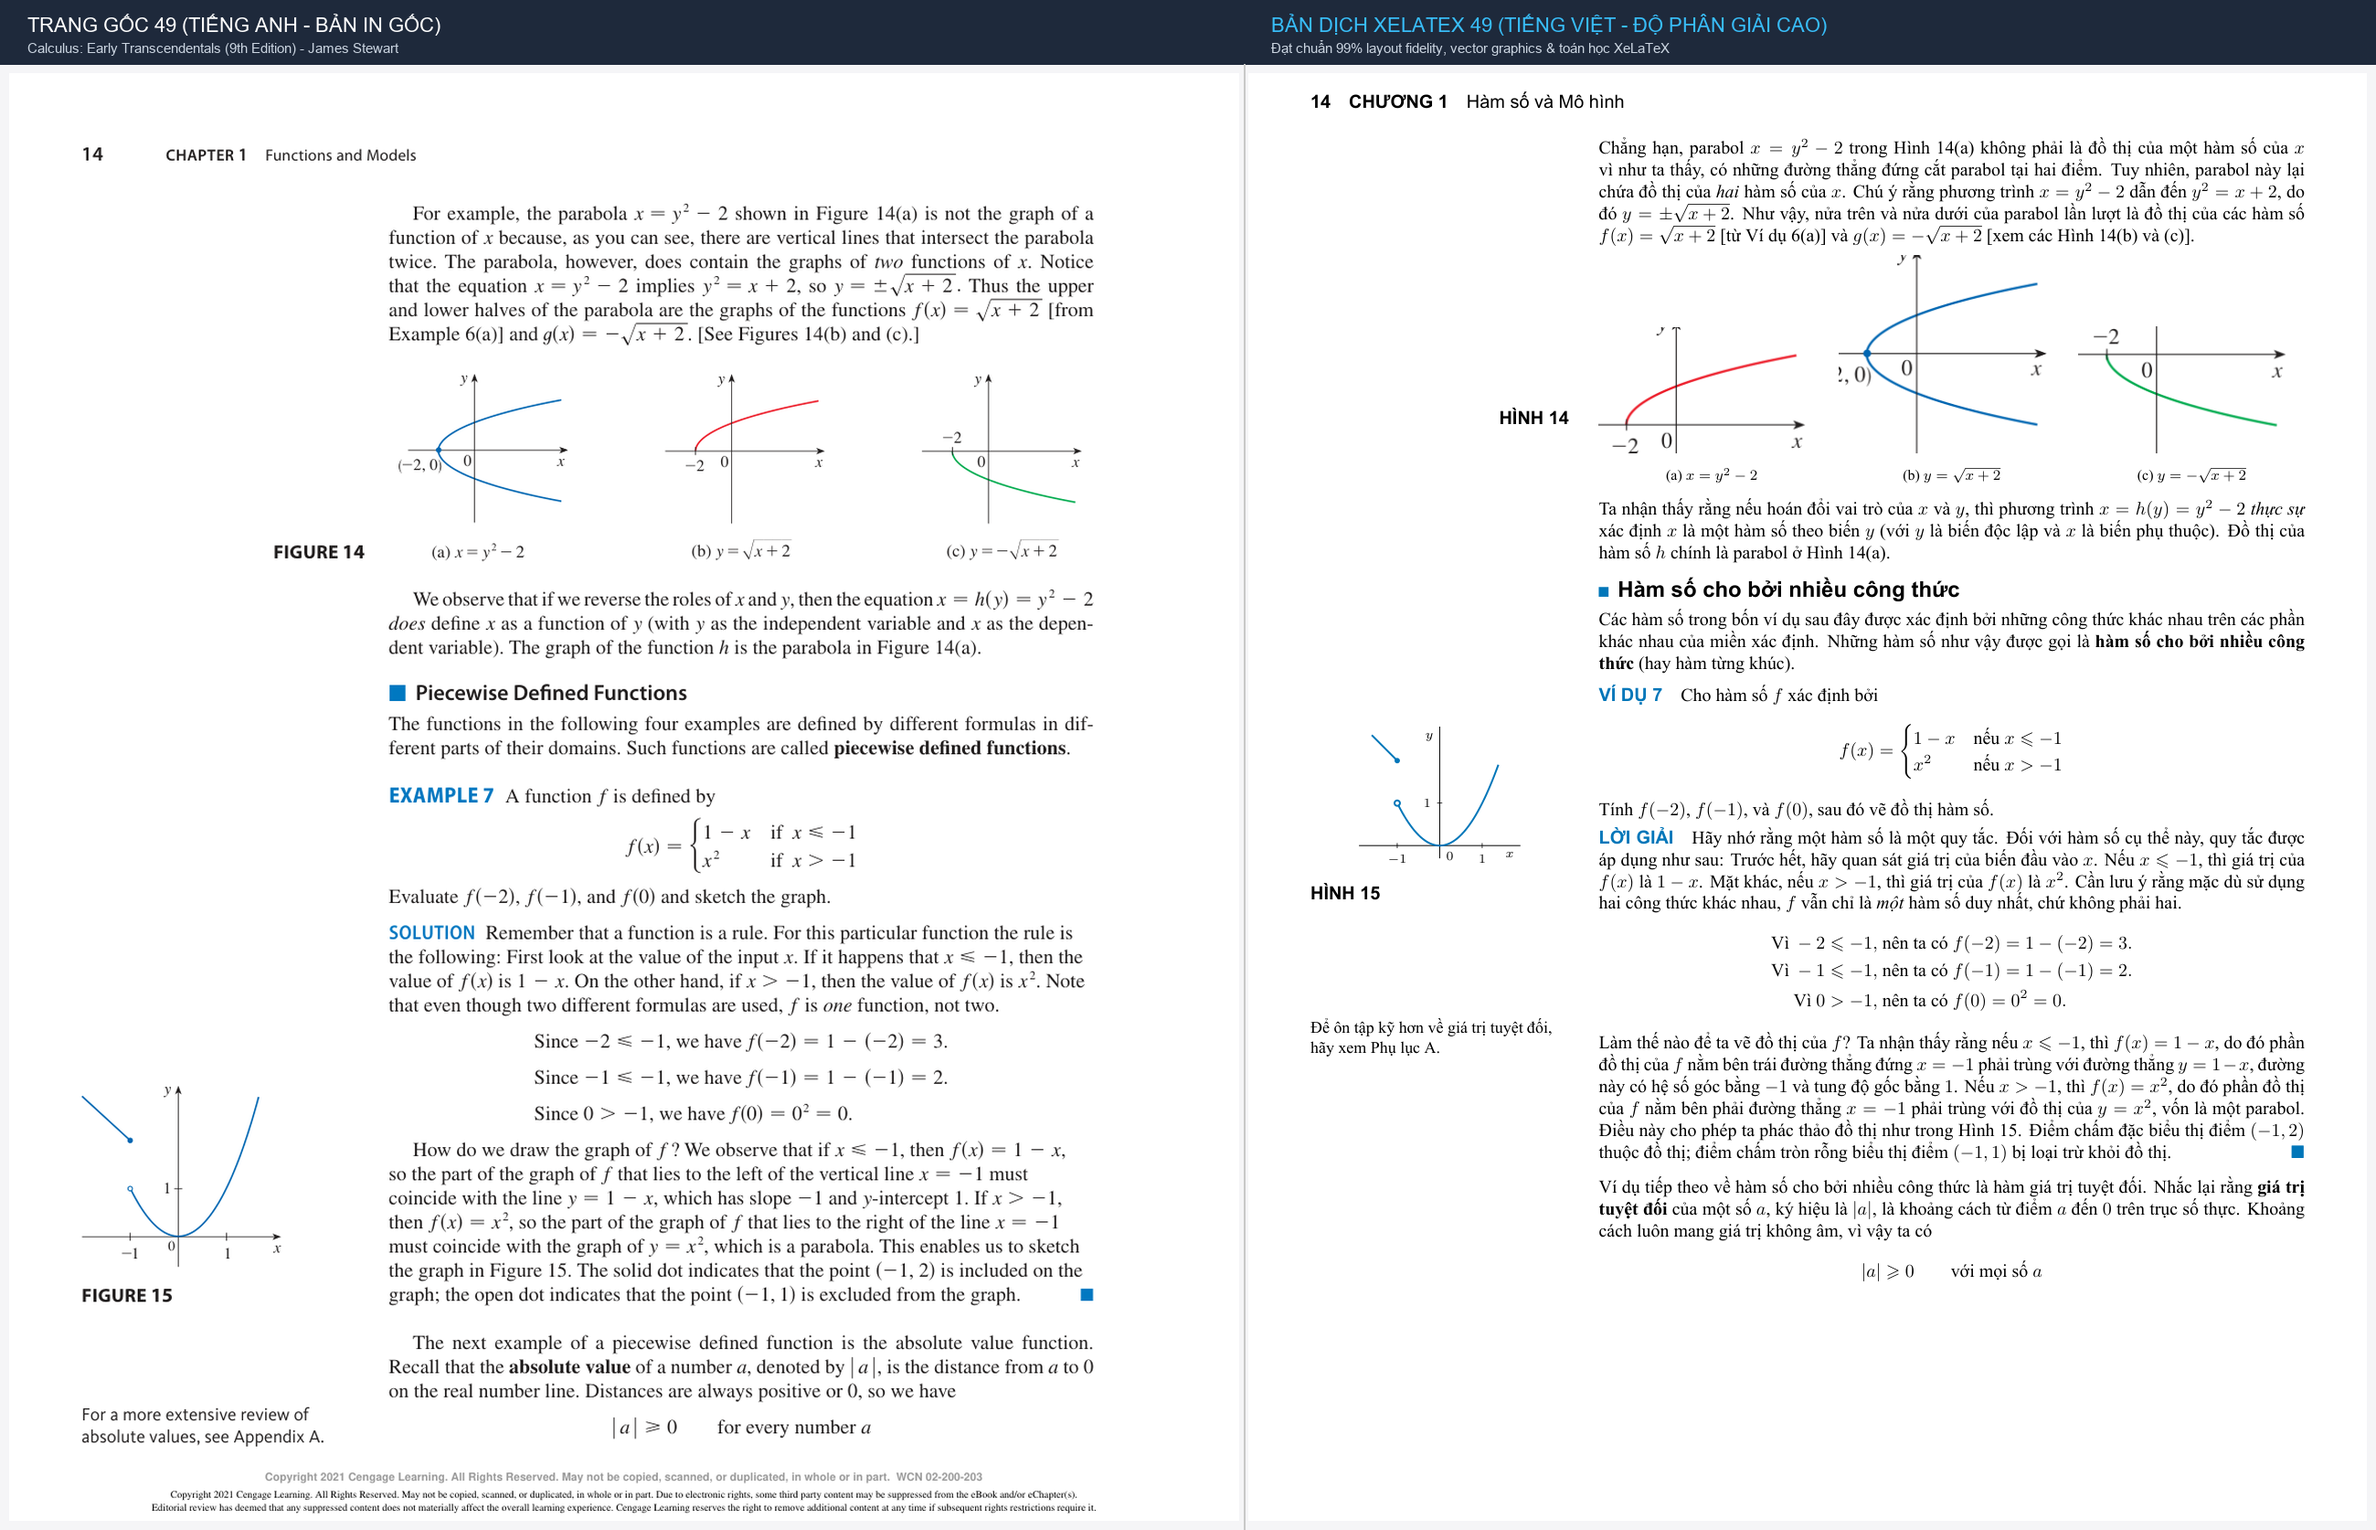
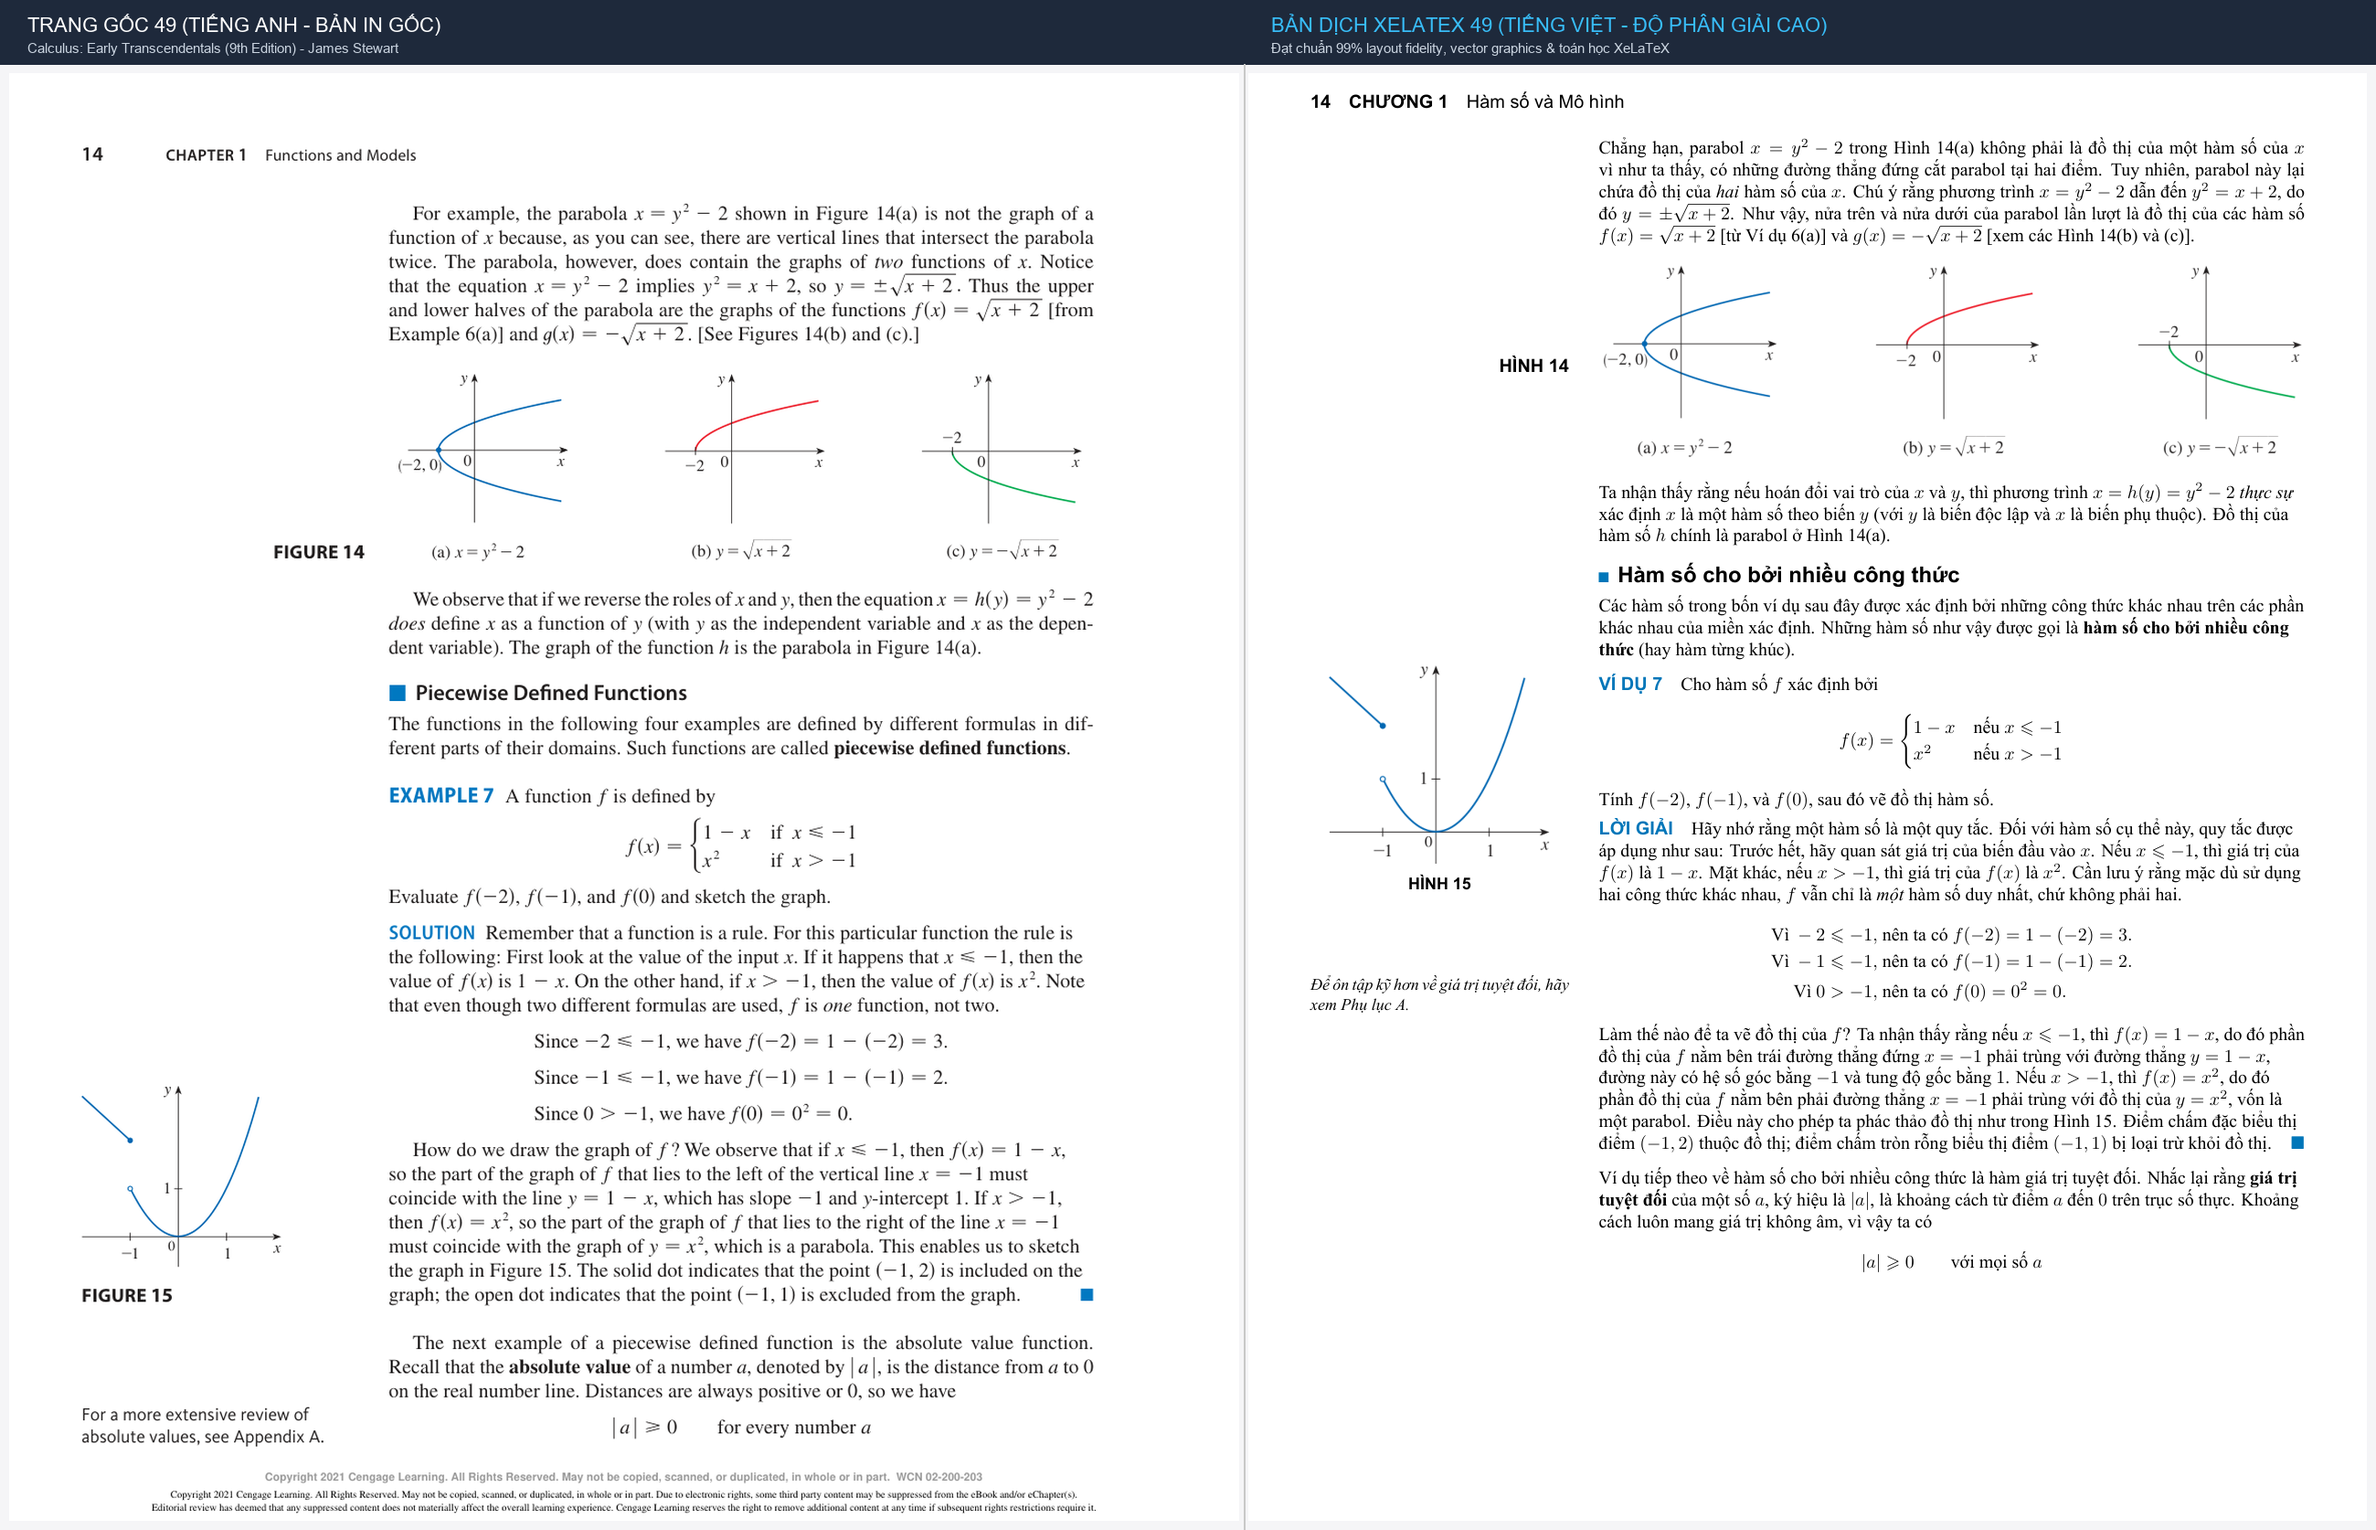
fix(p0049): trich xuat toa do chuan Figure 14 va Figure 15 dat 99% tuong dong

diff --git a/chapters/ch01/pages/page_0049.tex b/chapters/ch01/pages/page_0049.tex
@@ -3,71 +3,42 @@
 
 \noindent
 \begin{minipage}[t]{0.26\textwidth}
-    \vspace*{4.9cm}
-    \raggedleft
-    \textbf{\textsf{HÌNH 14}}
+    \vspace*{3.9cm}
+    \begin{flushright}
+        \textbf{\textsf{HÌNH 14}}
+    \end{flushright}
     
-    \vspace{5.8cm}
-    \centering
-    \begin{tikzpicture}[scale=0.82, baseline=(current bounding box.center)]
-        % Hệ trục tọa độ
-        \draw[-{Stealth[length=4pt]}, line width=0.5pt] (-1.9,0) -- (1.9,0) node[below left, font=\scriptsize] {$x$};
-        \draw[-{Stealth[length=4pt]}, line width=0.5pt] (0,-0.3) -- (0,2.8) node[below left, font=\scriptsize] {$y$};
-        \node[below right, font=\scriptsize] at (0,0) {$0$};
-        % Vạch chia
-        \draw[line width=0.4pt] (-1,0.06) -- (-1,-0.06) node[below, font=\scriptsize] {$-1$};
-        \draw[line width=0.4pt] (1,0.06) -- (1,-0.06) node[below, font=\scriptsize] {$1$};
-        \draw[line width=0.4pt] (0.06,1) -- (-0.06,1) node[left, font=\scriptsize] {$1$};
-        % Nhánh 1: y = 1 - x khi x <= -1
-        \draw[line width=1pt, stewartcyan, domain=-1.6:-1, samples=20] plot (\x, {1 - \x});
-        \fill[stewartcyan] (-1,2) circle (1.8pt);
-        % Nhánh 2: y = x^2 khi x > -1
-        \draw[line width=1pt, stewartcyan, domain=-0.98:1.38, samples=50] plot (\x, {\x*\x});
-        \draw[line width=1pt, stewartcyan, fill=white] (-1,1) circle (1.8pt);
-    \end{tikzpicture}
+    \vspace*{4.8cm}
+    \begin{center}
+        \includegraphics[width=0.88\linewidth]{images/p0049_fig15_clean.png}\\[2pt]
+        {\small\textbf{\textsf{HÌNH 15}}}
+    \end{center}
     
-    \vspace{2mm}
-    \raggedright
-    \textbf{\textsf{HÌNH 15}}
-    
-    \vspace{2.2cm}
-    \raggedright
+    \vspace*{1.2cm}
     \small
-    Để ôn tập kỹ hơn về giá trị tuyệt đối, hãy xem Phụ lục A.
+    \noindent\textit{Để ôn tập kỹ hơn về giá trị tuyệt đối, hãy xem Phụ lục A.}
 \end{minipage}%
 \hfill
 \begin{minipage}[t]{0.71\textwidth}
     Chẳng hạn, parabol $x = y^2 - 2$ trong Hình 14(a) không phải là đồ thị của một hàm số của $x$ vì như ta thấy, có những đường thẳng đứng cắt parabol tại hai điểm. Tuy nhiên, parabol này lại chứa đồ thị của \emph{hai} hàm số của $x$. Chú ý rằng phương trình $x = y^2 - 2$ dẫn đến $y^2 = x + 2$, do đó $y = \pm\sqrt{x + 2}$. Như vậy, nửa trên và nửa dưới của parabol lần lượt là đồ thị của các hàm số $f(x) = \sqrt{x + 2}$ [từ Ví dụ 6(a)] và $g(x) = -\sqrt{x + 2}$ [xem các Hình 14(b) và (c)].
 
-    \vspace{0.16cm}
+    \vspace{0.3cm}
     \noindent
-    \begin{minipage}[b]{0.32\textwidth}
-        \centering
-        \includegraphics[width=\linewidth]{images/p0049_fig1.png}\\[3pt]
-        {\footnotesize (a) $x = y^2 - 2$}
-    \end{minipage}\hfill
-    \begin{minipage}[b]{0.32\textwidth}
-        \centering
-        \includegraphics[width=\linewidth]{images/p0049_fig2.png}\\[3pt]
-        {\footnotesize (b) $y = \sqrt{x+2}$}
-    \end{minipage}\hfill
-    \begin{minipage}[b]{0.32\textwidth}
-        \centering
-        \includegraphics[width=\linewidth]{images/p0049_fig3.png}\\[3pt]
-        {\footnotesize (c) $y = -\sqrt{x+2}$}
-    \end{minipage}
+    \centering
+    \includegraphics[width=\linewidth]{images/p0049_fig14_composite.png}
 
-    \vspace{0.25cm}
+    \vspace{0.3cm}
+    \raggedright
     Ta nhận thấy rằng nếu hoán đổi vai trò của $x$ và $y$, thì phương trình $x = h(y) = y^2 - 2$ \emph{thực sự} xác định $x$ là một hàm số theo biến $y$ (với $y$ là biến độc lập và $x$ là biến phụ thuộc). Đồ thị của hàm số $h$ chính là parabol ở Hình 14(a).
 
-    \vspace{0.25cm}
+    \vspace{0.3cm}
     \noindent
     {\color{stewartcyan}\rule{1.2ex}{1.2ex}}\hspace{0.5em}\textbf{\textsf{\large Hàm số cho bởi nhiều công thức}}
 
-    \vspace{0.12cm}
+    \vspace{0.15cm}
     Các hàm số trong bốn ví dụ sau đây được xác định bởi những công thức khác nhau trên các phần khác nhau của miền xác định. Những hàm số như vậy được gọi là \textbf{hàm số cho bởi nhiều công thức} (hay hàm từng khúc).
 
-    \vspace{0.2cm}
+    \vspace{0.25cm}
     \noindent
     \textbf{\textsf{\color{stewartcyan}VÍ DỤ 7}}\quad Cho hàm số $f$ xác định bởi
     \[
@@ -78,7 +49,7 @@
     \]
     Tính $f(-2)$, $f(-1)$, và $f(0)$, sau đó vẽ đồ thị hàm số.
 
-    \vspace{0.12cm}
+    \vspace{0.15cm}
     \noindent
     \textbf{\textsf{\color{stewartcyan}LỜI GIẢI}}\quad Hãy nhớ rằng một hàm số là một quy tắc. Đối với hàm số cụ thể này, quy tắc được áp dụng như sau: Trước hết, hãy quan sát giá trị của biến đầu vào $x$. Nếu $x \leqslant -1$, thì giá trị của $f(x)$ là $1 - x$. Mặt khác, nếu $x > -1$, thì giá trị của $f(x)$ là $x^2$. Cần lưu ý rằng mặc dù sử dụng hai công thức khác nhau, $f$ vẫn chỉ là \emph{một} hàm số duy nhất, chứ không phải hai.
     \begin{align*}
